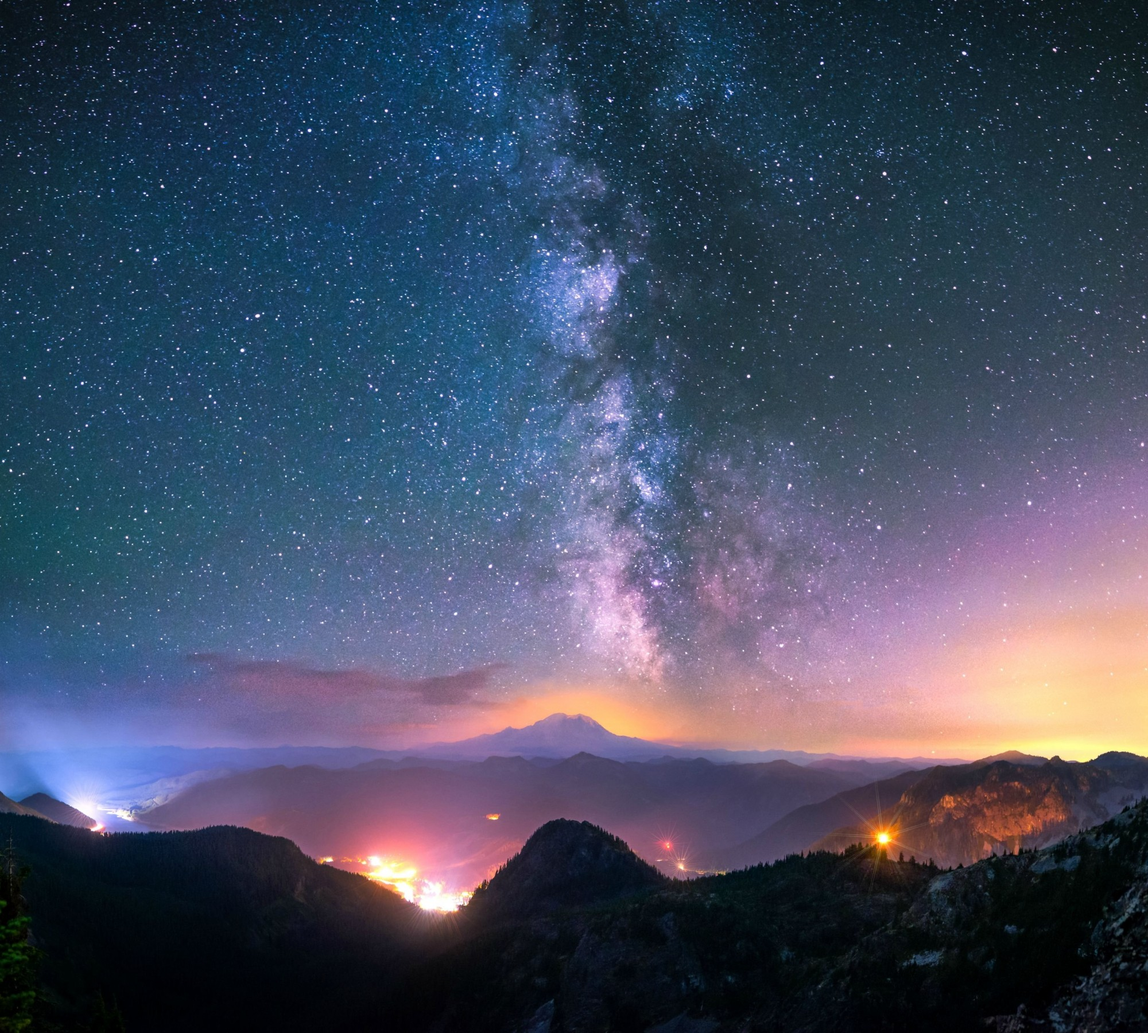
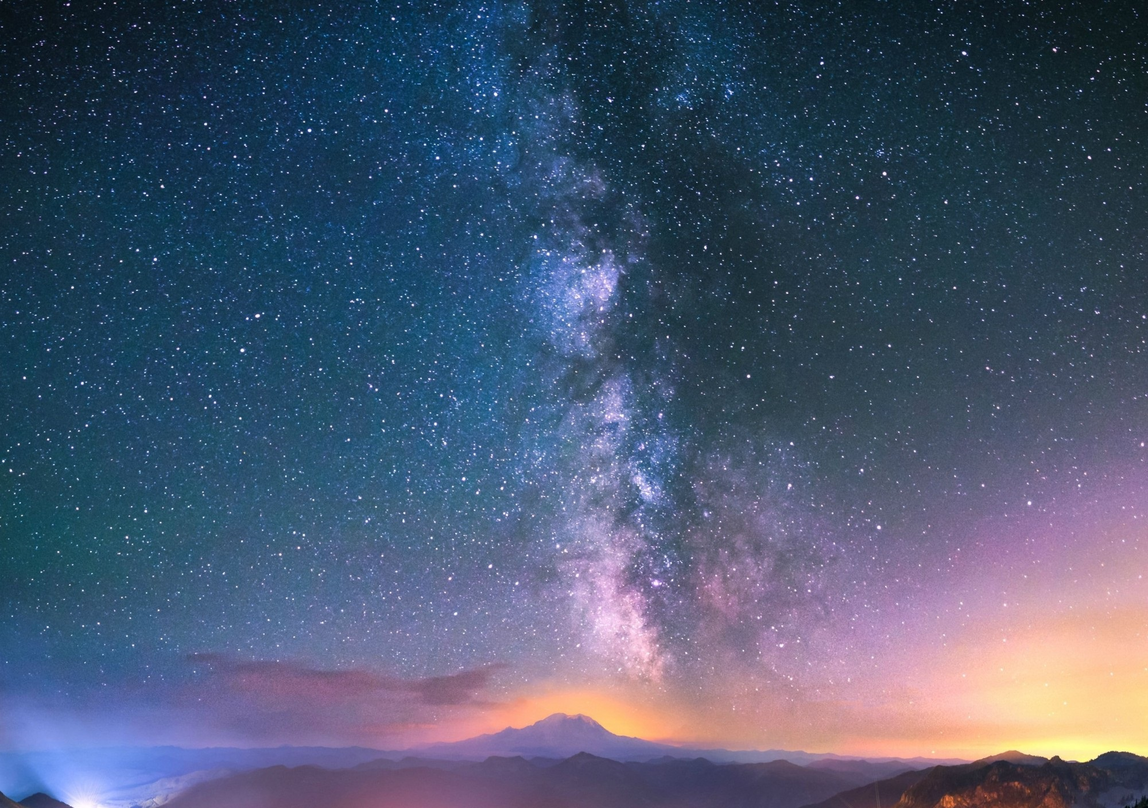
Foram alterados, a imagem de fundo da tela inicial e os navegadores, foi adicionado duas novas páginas que: habilidade e sobre mim, está sendo implementado a página experiencias

diff --git a/index.html b/index.html
@@ -18,49 +18,195 @@
         <!-- Nav tabs -->
           <!--  <img src="}?:>  'D4EDX '" class="card-img" alt="">  -->
          <div class="card bg-dark text-white">
-            <img id="fundo" src="imagens/teste8.jpg" class="card-img" alt="">
+            <img id="fundo" src="imagens/teste9.png" class="card-img" alt="">
+            
             <div class="card-img-overlay">
-              <nav class="fixed-top">
-                  
-                <ul class="nav nav-tabs" id="myTab" role="tablist">
-                    <li id="homeli" class="nav-item">
-                      <a class="nav-link active" id="home-tab" data-toggle="tab" href="#home" role="tab" aria-controls="home" aria-selected="true">Home</a>
-                    </li>
-                    <li class="nav-item">
-                      <a  class="nav-link" id="profile-tab" data-toggle="tab" href="#profile" role="tab" aria-controls="profile" aria-selected="false">Sobre mim</a>
-                    </li>
-                    <li class="nav-item">
-                      <a class="nav-link" id="messages-tab" data-toggle="tab" href="#messages" role="tab" aria-controls="messages" aria-selected="false">Habilidades</a>
-                    </li>
-                    <li class="nav-item">
-                      <a class="nav-link" id="settings-tab" data-toggle="tab" href="#settings" role="tab" aria-controls="settings" aria-selected="false">Experiencias</a>
-                    </li>
-                  </ul>
-              </nav>
+                <nav class="navbar navbar-expand-md navbar-dark fixed-top">
+                    <a id="curriculo" class="navbar-brand" href="#">Curriculo</a>
+                    <button class="navbar-toggler collapsed" type="button" data-toggle="collapse" data-target="#navbarCollapse" aria-controls="navbarCollapse" aria-expanded="false" aria-label="Toggle navigation">
+                      <span class="navbar-toggler-icon"></span>
+                    </button>
+                    <div class="navbar-collapse collapse" id="navbarCollapse" style="">
+                        <ul class="navbar-nav" id="myTab" role="tablist">
+                            <li id="homeli" class="nav-item">
+                              <a class="nav-link" id="messages-tab" href="#messages" aria-controls="messages" aria-selected="false">Sobre Mim</a>
+                            </li>
+                            <li class="nav-item">
+                              <a  class="nav-link" id="profile-tab" href="#profile" aria-controls="profile" aria-selected="false">Habilidades</a>
+                            </li>
+                            <li class="nav-item">
+                              <a class="nav-link" id="settings-tab" href="#settings" aria-controls="settings" aria-selected="false">Experiencias</a>
+                            </li>
+                            <li class="nav-item">
+                              <a class="nav-link" id="Portifolio-tab" href="#Portifolio" aria-controls="Portifolio" aria-selected="false">Portifólio</a>
+                            </li>
+                          </ul>
+                    </div>
+                  </nav>
               <div class="cc-profile-image"><a href="#"><img id="perfil" src="imagens/ts3.png" alt="Image"></a></div>
+              <p id="nome" class="font-weight-light">Vitor Santos</p>
               </div>
               </div>
               
             <div  class="tab-content">
-                <div class="tab-pane active" id="home" role="tabpanel" aria-labelledby="home-tab">
-                  Sinta-se à vontade.
-        
+                <div class="tab-pane active" id="messages" role="tabpanel" aria-labelledby="messages-tab">
+                  <p class="corrigeNav">.</p>
+                  <p class="corrigeNav">.</p>
+                    <section id="sobreMim">
+                      <div id="sobre">
+                        <h2>Sobre</h2>
+                        <p>
+                          Olá, me chamo Vitor Santos do Nascimento.<br><br>
+                          Atualmente estou cursando o ultimo semestre do curso superior de Análise e Desenvolvimento de Sistemas, Fornecido
+                          pelo Instituto Federal de Mato Grosso do Sul, busco um emprego na área do desenvolvimento para que possa
+                          colocar minhas habilidades em pratica e aprender cada vez mais, contribuindo assim com os meus interesses
+                          e consequentemente com os interesses da empresa.
+                        </p>
+                      </div>
+                      
+                        
+                        
+                          
+                          <div id="info">
+                          
+                        <div id="perguntas">
+                          <h2 id="h2Info">Informações</h2>
+                          <p>Data de Nascimento:</p>
+                          <p>Natural de:</p>
+                          <p>Estado Civil:</p>
+                          <p>E-mail:</p>
+                          <p>Telefone:</p>
+                          <p>Endereço:</p>
+                        </div>
+                        <div id="respostas">
+                          <br><br>
+                          <p>16/11/1996</p>
+                          <p>São Gabriel do Oeste</p>
+                          <p>Solteiro</p>
+                          <p>vitor7_sn@hotmail.com</p>
+                          <p>(67) 99138-2836</p>
+                          <p>Rua Pirambóia, numero 660, Rosana - SP</p>
+                        </div>
+                      </div>             
+                    </section>
+                  </div>
+                  <div class="tab-pane active" id="profile" role="tabpanel" aria-labelledby="profile-tab">
+                      <p class="corrigeNav">.</p>
+                      <p class="corrigeNav">.</p>
+                      <section id="services" style="background-color: #eee">
+                          <div class="container">
+                            <div class="row services">
+                              <div class="col-md-12">
+                                <h2 class="heading">Habilidades</h2>
+                                <div class="row justify">
+                                  <div class="col-sm-4">
+                                    <div class="box">
+                                      <div class="icon">
+                                        <img class="ico" src="imagens/icones/binario.png" alt="">
+                                      </div>
+                                      <h4>Programação</h4>
+                                      <p>Possuo conhecimento em várias linguagens de programação, estruturação e estilização.</p>
+                                      <ul>
+                                          <li>C</li>
+                                          <li>Java</li>
+                                          <li>JavaScript</li>
+                                          <li>PHP</li>
+                                          <li>HTML</li>
+                                          <li>CSS</li>
+                                        </ul>
+                                      </p>
+                                    </div>
+                                  </div>
+                                  <div class="col-sm-4">
+                                    <div class="box">
+                                      <div class="icon">
+                                        <img class="ico" src="imagens/icones/BD.png" alt="">
+                                      </div>
+                                      <h4>Banco de Dados</h4>
+                                      <p>
+                                         Tenho conhecimento em MySQL e postigres, já fiz vários
+                                         projetos integrados á banco de dados, alguns estão disponiveis em meu portifólio.
+                                      </p>
+                                    </div>
+                                  </div>
+                                  <div class="col-sm-4">
+                                    <div class="box">
+                                      <div class="icon">
+                                        <img class="ico" src="imagens/icones//suporte.png" alt="">
+                                      </div>
+                                      <h4>Suporte Técnico</h4>
+                                      <p>
+                                        Durante 10 meses fiz estágio na empresa Ganso Sistemas, exercendo a função de análista de suporte,
+                                        possuo experiência com formatação e manutenção de computadores.
+                                      </p>
+                                    </div>
+                                  </div>
+                                  <div class="col-sm-4">
+                                      <div class="box">
+                                        <div class="icon">
+                                          <img class="ico" src="imagens/icones/equipe.png" alt="">
+                                        </div>
+                                        <h4>Trabalho em equipe</h4>
+                                        <p>
+                                          Possuo uma excelente comunicação e facilidade em me relacionar, buscando sempre
+                                          a melhor forma de contribuir com o grupo para assim acharmos juntos melhores soluções para nossos 
+                                          clientes.
+                                        </p>
+                                      </div>
+                                    </div>
+                                    <div class="col-sm-4">
+                                        <div class="box">
+                                          <div class="icon">
+                                            <img class="ico" src="imagens/icones/negocio.png" alt="">
+                                          </div>
+                                          <h4>Negócios</h4>
+                                          <p>
+                                            Possuo experiencia com o varejo, sendo que ja trabalhei durante 1 ano como operador
+                                            de caixa em uma grande empresa e também ja trabalhei por 10 meses em uma softwarer-houve
+                                            que desenvolve softwares para varejo, sendo assim conheço tanto o lado do cliente quanto o lado dos
+                                            desenvolvedos, tenho grande conhecimento em tributação.
+                                          </p>
+                                        </div>
+                                      </div>
+                                </div>
+                              </div>
+                            </div>
+                          </div>
+                        </section>
+                  </div>
+                  
+                  <div class="tab-pane active" id="settings" role="tabpanel" aria-labelledby="settings-tab">
+
+                      <div class="card mb-3" style="max-width: 540px;">
+                          <div class="row no-gutters">
+                            <div class="col-md-4">
+                              <img src="..." class="card-img" alt="...">
+                            </div>
+                            <div class="col-md-8">
+                              <div class="card-body">
+                                <h5 class="card-title">Operador de caixa</h5>
+                                <p class="card-text"></p>
+                                <p class="card-text"><small class="text-muted">Last updated 3 mins ago</small></p>
+                              </div>
+                            </div>
+                          </div>
+                        </div>
+
+                  </div>
+                  <div class="tab-pane active" id="portifolio" role="tabpanel" aria-labelledby="portifolio-tab"></div>
                 </div>
-                <div class="tab-pane" id="profile" role="tabpanel" aria-labelledby="profile-tab"></div>
-                <div class="tab-pane" id="messages" role="tabpanel" aria-labelledby="messages-tab"></div>
-                <div class="tab-pane" id="settings" role="tabpanel" aria-labelledby="settings-tab"></div>
               </div>
-
-      
-      
-      <!-- Tab panes -->
-      
-
-    <!-- Optional JavaScript -->
-    <!-- jQuery first, then Popper.js, then Bootstrap JS -->
-    <script src="node_modules/jquery/dist/jquery.js"></script>
-    <script src="node_modules/popper/dist/umd/popper.js"></script>
-    <script src="node_modules/bootstrap/dist/js/bootstrap.js"></script>
-
-  </body>
-</html>
+  
+        
+        
+        <!-- Tab panes -->
+        
+  
+      <!-- Optional JavaScript -->
+      <!-- jQuery first, then Popper.js, then Bootstrap JS -->
+      <script src="node_modules/jquery/dist/jquery.js"></script>
+      <script src="node_modules/popper/dist/umd/popper.js"></script>
+      <script src="node_modules/bootstrap/dist/js/bootstrap.js"></script>
+  
+    </body>
+  </html>
